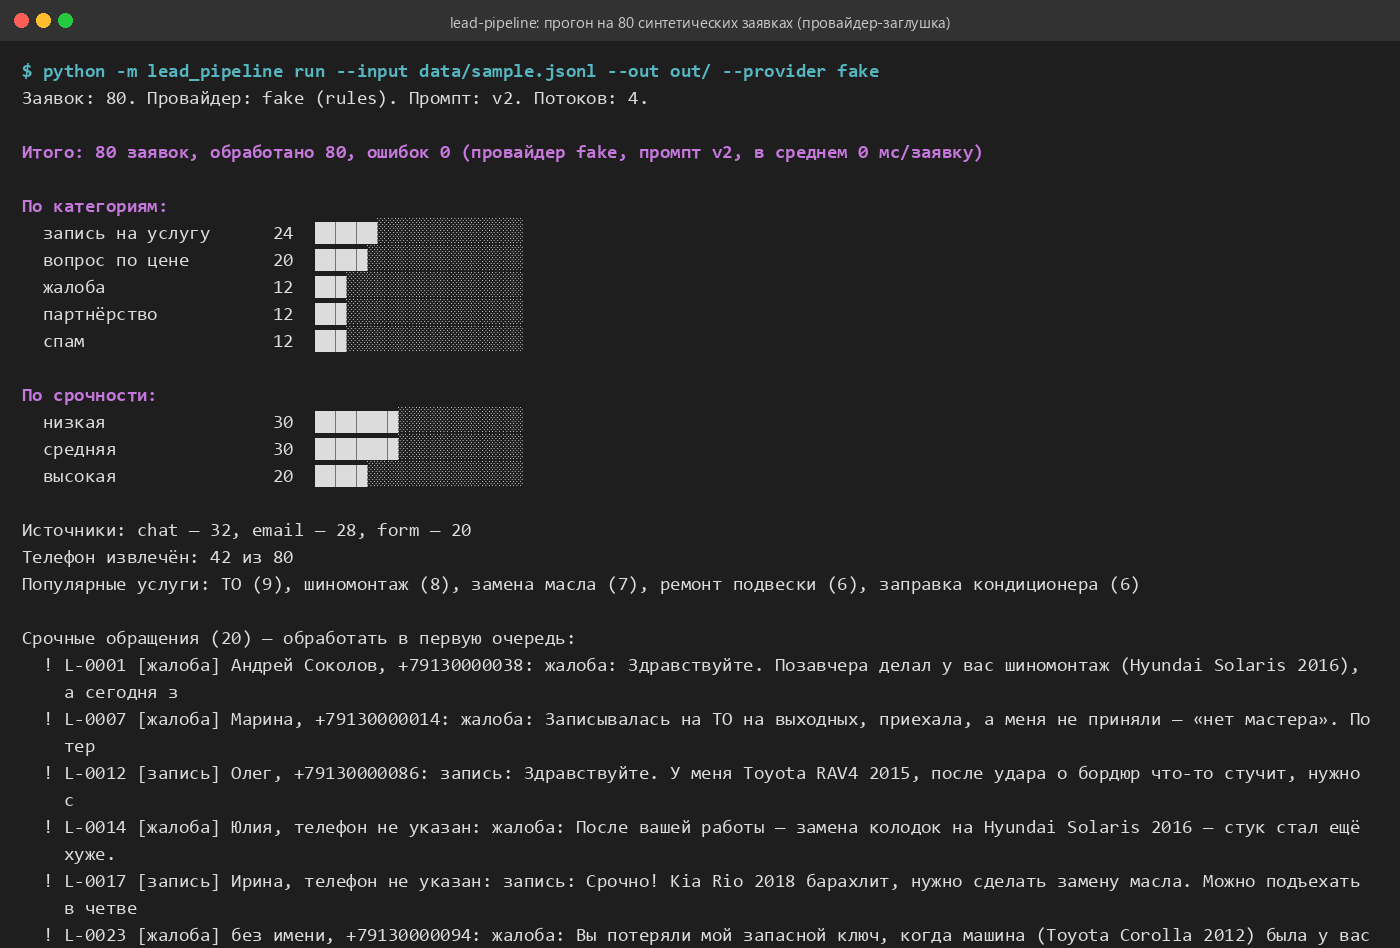
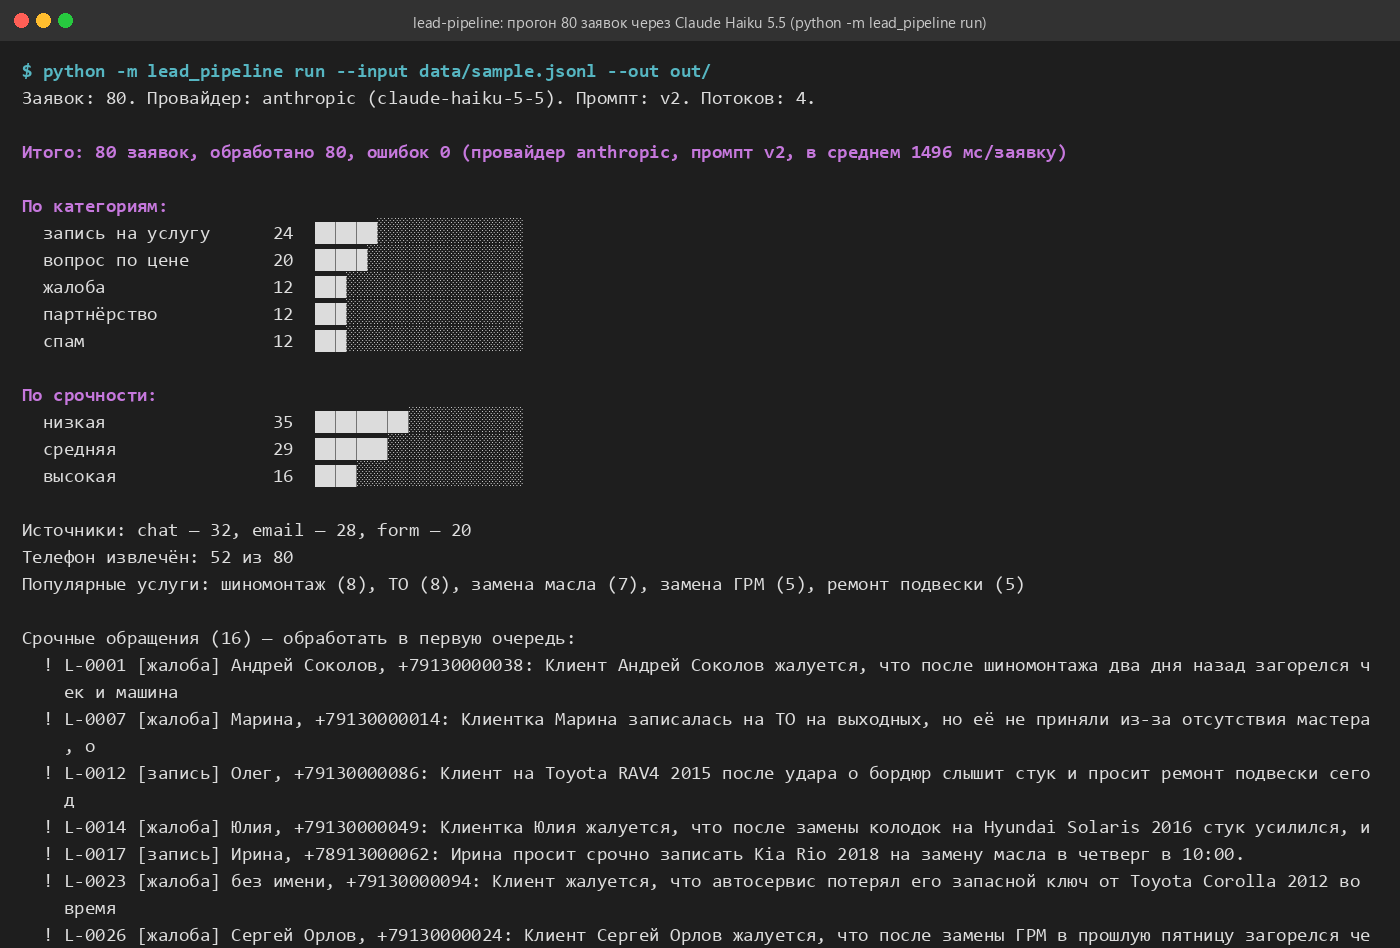
docs: live Claude Haiku 5.5 results (golden v1/v2, sample-80) and run screenshot

diff --git a/README.md b/README.md
@@ -99,15 +99,21 @@ docker run --env-file .env -v %cd%/out:/app/out lead-pipeline
 
 ## Результаты
 
-| Набор | Провайдер | Категории | Срочность | Поля (имя / телефон / услуга / дата / бюджет) |
-|---|---|---|---|---|
-| golden, 30 примеров | заглушка (правила) | 100 % | 93 % | 100 / 100 / 97 / 97 / 100 % |
-| sample, 80 синтетических | заглушка (правила) | 96 % | 98 % | 100 / 88 / 96 / 99 / 100 % |
-| golden, 30 примеров | Claude Haiku 5.5 | — | — | заполняется командой `python -m lead_pipeline eval --provider anthropic` |
+| Набор | Провайдер | Промпт | Категории | Срочность | Поля (имя / телефон / услуга / дата / бюджет) |
+|---|---|---|---|---|---|
+| golden, 30 примеров | Claude Haiku 5.5 | v2 | **100 %** | 93 % | 100 / 100 / 93 / 83 / 97 % |
+| golden, 30 примеров | Claude Haiku 5.5 | v1 | 97 % | 93 % | 97 / 93 / 87 / 80 / 93 % |
+| sample, 80 синтетических | Claude Haiku 5.5 | v2 | 97,5 % | 94 % | 98 / 91 / 99 / 89 / 99 % |
+| golden, 30 примеров | заглушка (правила) | — | 100 % | 93 % | 100 / 100 / 97 / 97 / 100 % |
+| sample, 80 синтетических | заглушка (правила) | — | 96 % | 98 % | 100 / 88 / 96 / 99 / 100 % |
+
+Прогоны на Claude сделаны 15.10.2026, `effort: low`, в среднем 1,5 с на заявку при 4 потоках.
+Переход с v1 на v2 (правила спорных случаев и примеры) убрал ошибку на спорном примере и поднял
+точность полей. Две ошибки на синтетике — «вопрос по цене» с намерением приехать, который модель
+отнесла к записи: граница этих классов спорная по определению.
 
 Цифры заглушки — нижняя планка: правила знают только ключевые слова, которые есть и в
-синтетических данных. Реальная ценность конвейера — в модели, которая понимает перефразировки;
-её результат на том же наборе печатает `eval`.
+синтетических данных. Реальная ценность конвейера — в модели, которая понимает перефразировки.
 
 ## Формат входа
 

diff --git a/prompts/README.md b/prompts/README.md
@@ -4,10 +4,12 @@
 `model`, `changelog`) и текстом системного промпта. Версии не перезаписываются:
 новая версия — новый файл, старая остаётся для сравнения.
 
-| Версия | Что изменилось | Точность категорий на evals/golden.jsonl |
+| Версия | Что изменилось | Точность на evals/golden.jsonl (Claude Haiku 5.5, 15.10.2026) |
 |---|---|---|
-| v1 | краткие определения категорий | см. `python -m lead_pipeline eval --prompt v1 --provider anthropic` |
-| v2 (текущая) | правила спорных случаев, примеры, нормализация полей | см. `python -m lead_pipeline eval --provider anthropic` |
+| v1 | краткие определения категорий | категории 97 %, срочность 93 %, поля 80–97 % |
+| v2 (текущая) | правила спорных случаев, примеры, нормализация полей | категории 100 %, срочность 93 %, поля 83–100 % |
+
+Повторить: `python -m lead_pipeline eval --provider anthropic [--prompt v1]`.
 
 Конвейер берёт последнюю версию; конкретную можно задать переменной `PROMPT_VERSION=v1`
 или флагом `--prompt v1`. Версия промпта записывается в каждую строку результата
